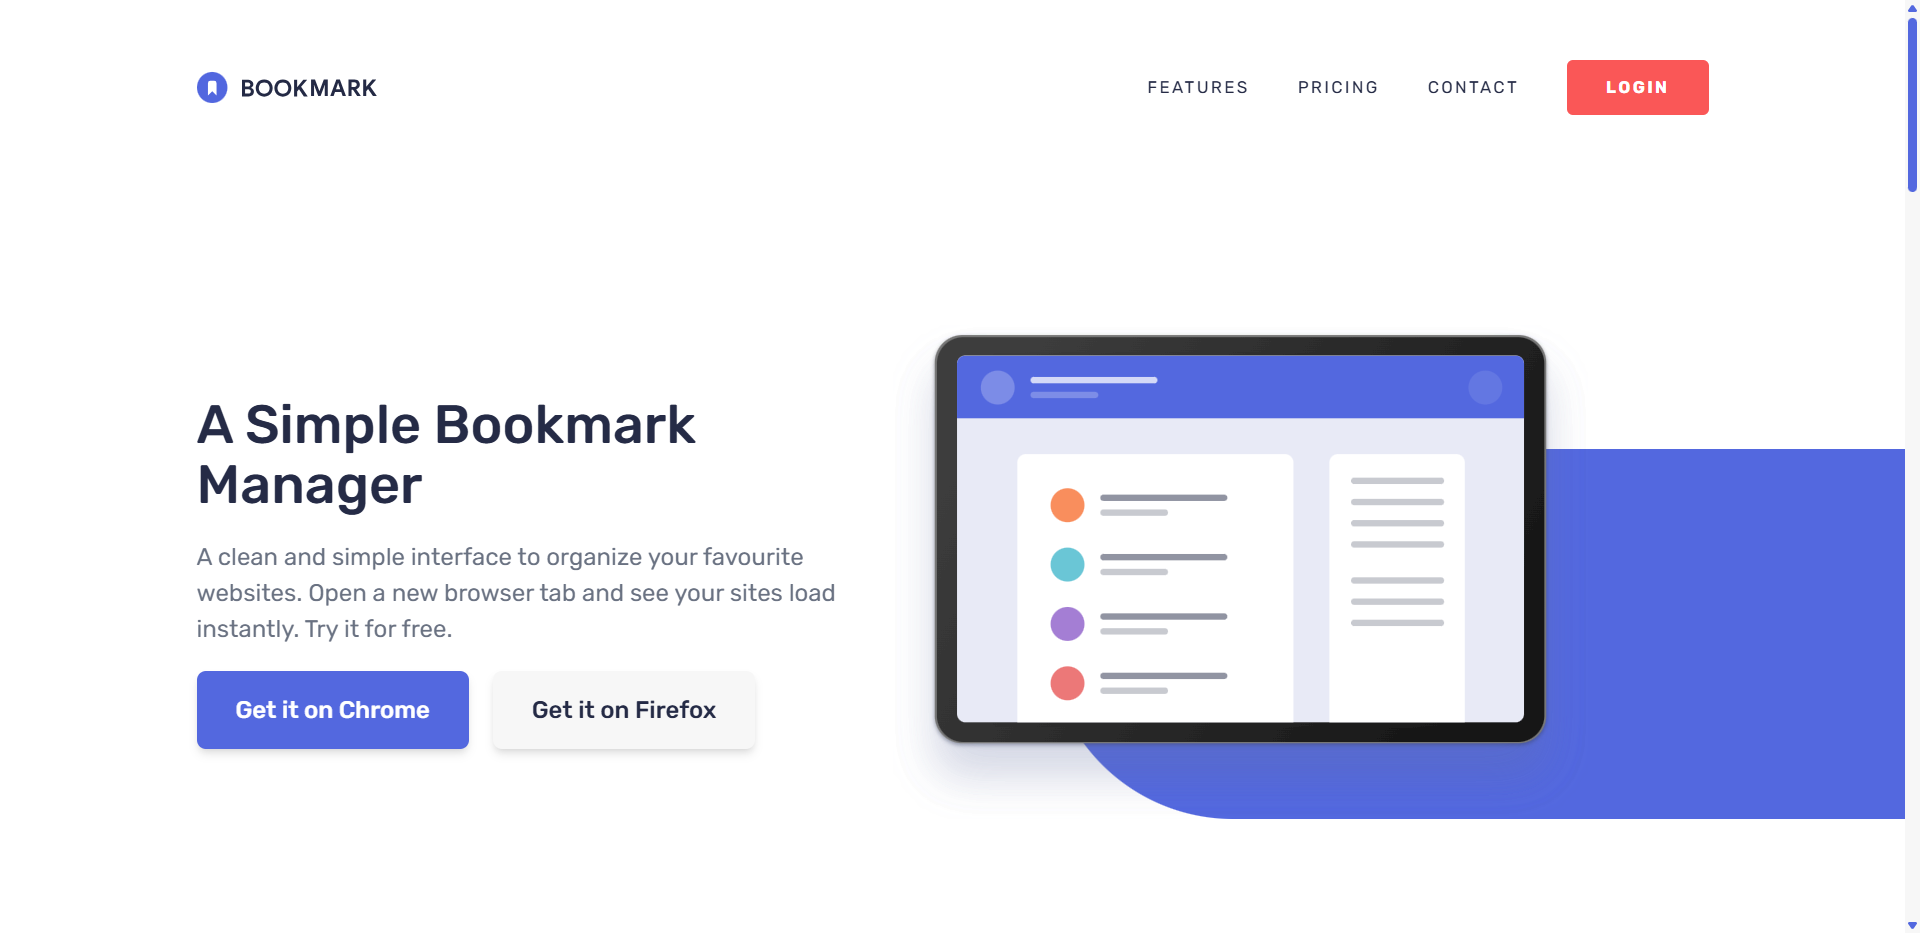
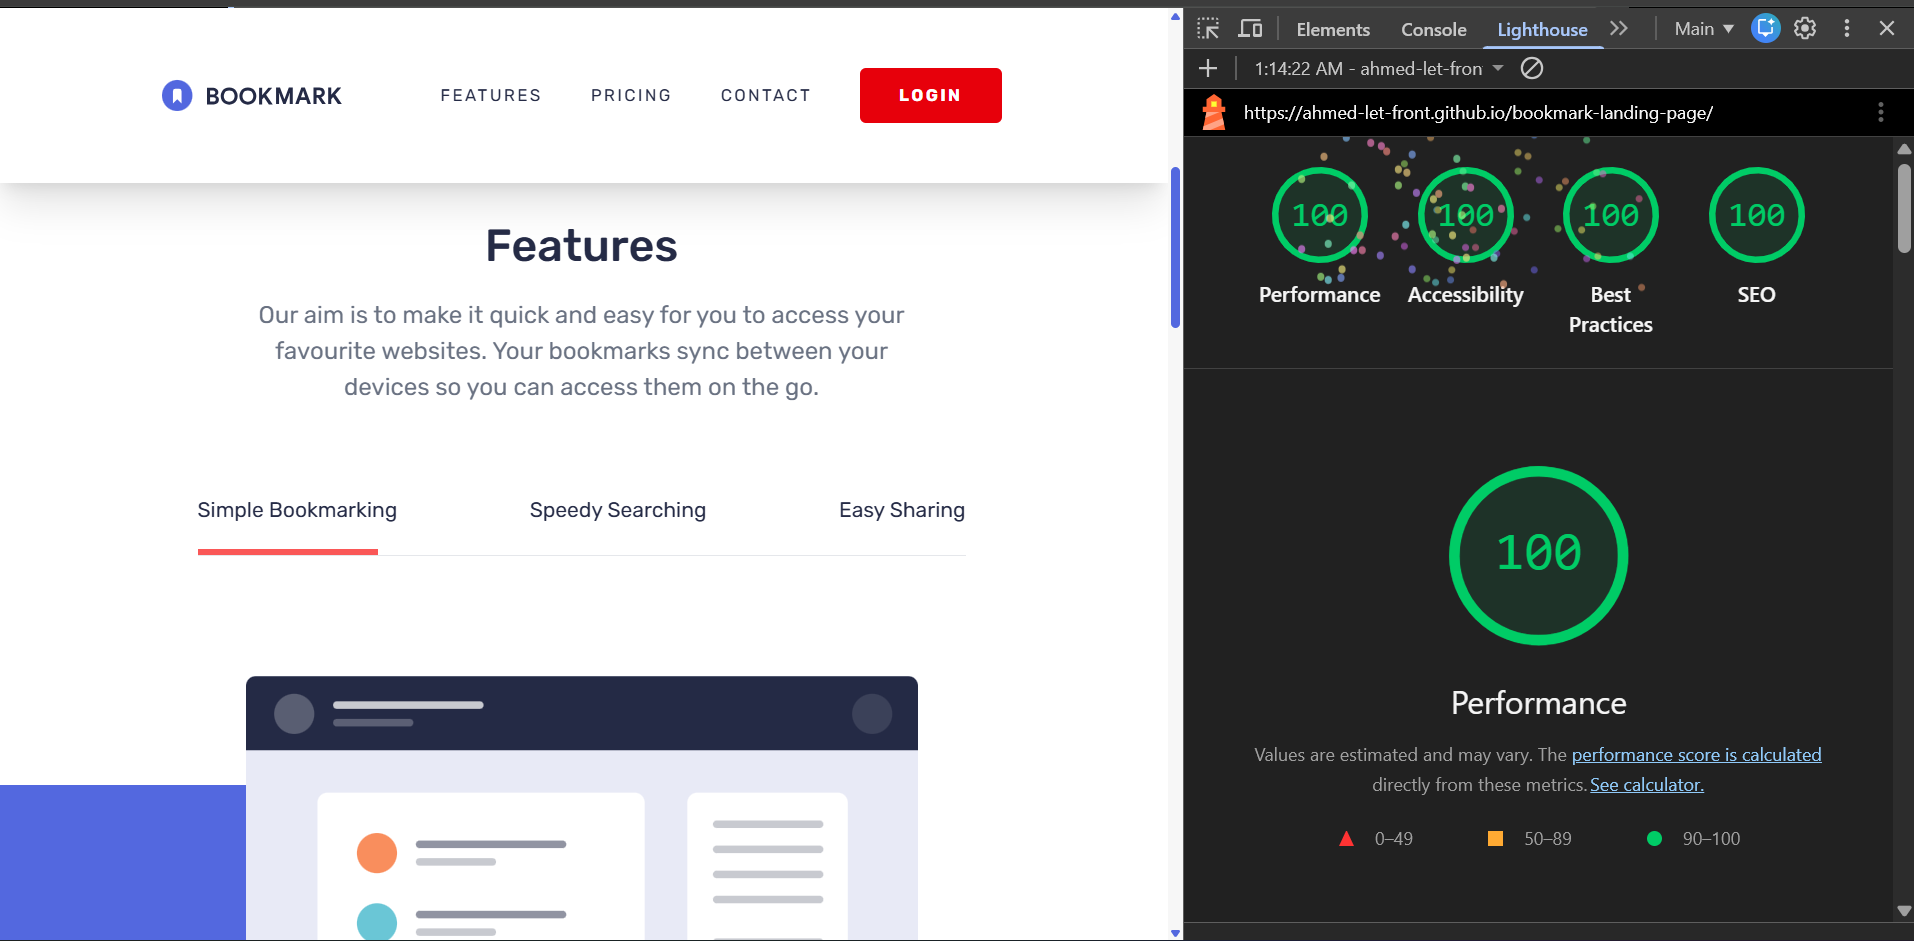
Updates

diff --git a/index.html b/index.html
@@ -7,6 +7,11 @@
       name="description"
       content="A clean and simple bookmark manager to organize your favorite websites quickly and efficiently. Access your bookmarks anywhere."
     />
+    <link
+      rel="icon"
+      type="image/png"
+      href="/bookmark-landing-page/assets/icon-bookmark-DakES-pc.svg"
+    />
     <title>Bookmark | Simple & Easy Bookmark Manager</title>
     <script type="module" crossorigin src="/bookmark-landing-page/assets/index-Cdf7z_LO.js"></script>
     <link rel="stylesheet" crossorigin href="/bookmark-landing-page/assets/index-BTnB9Rn6.css">
